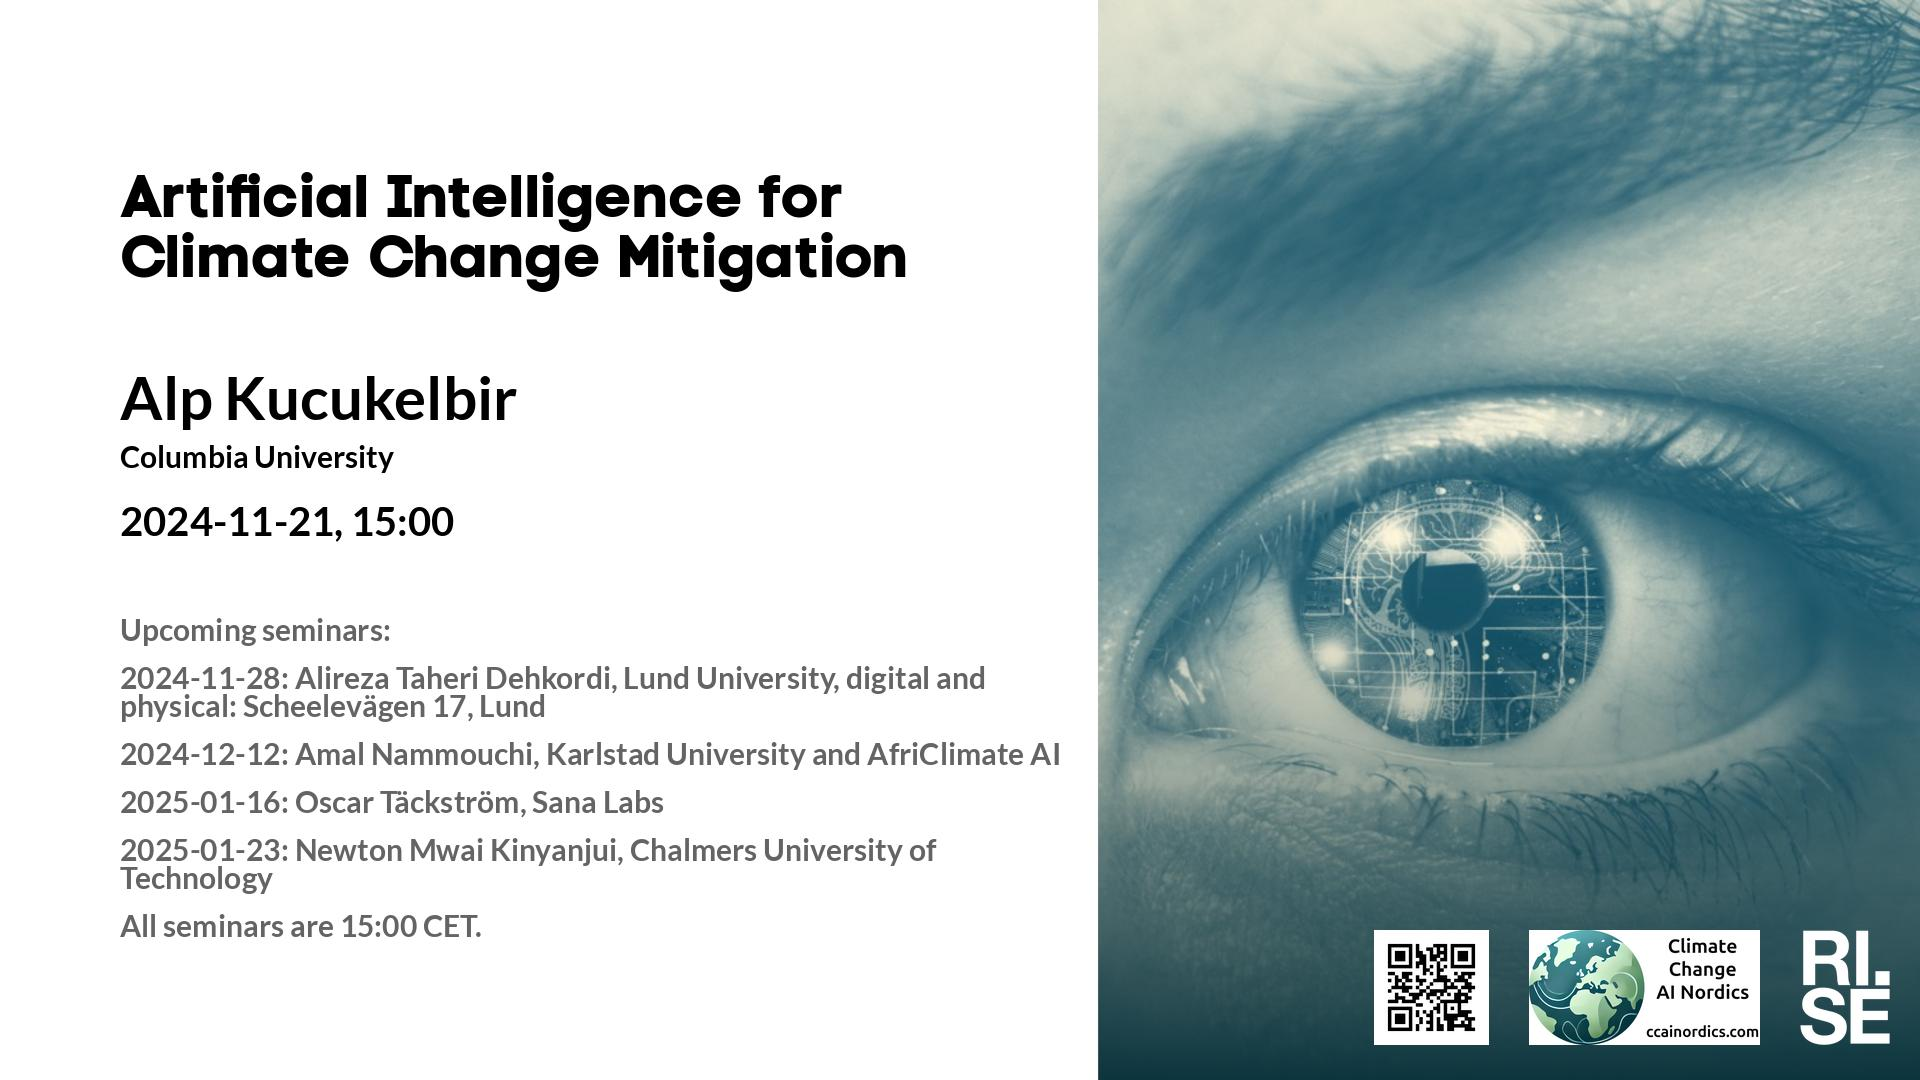
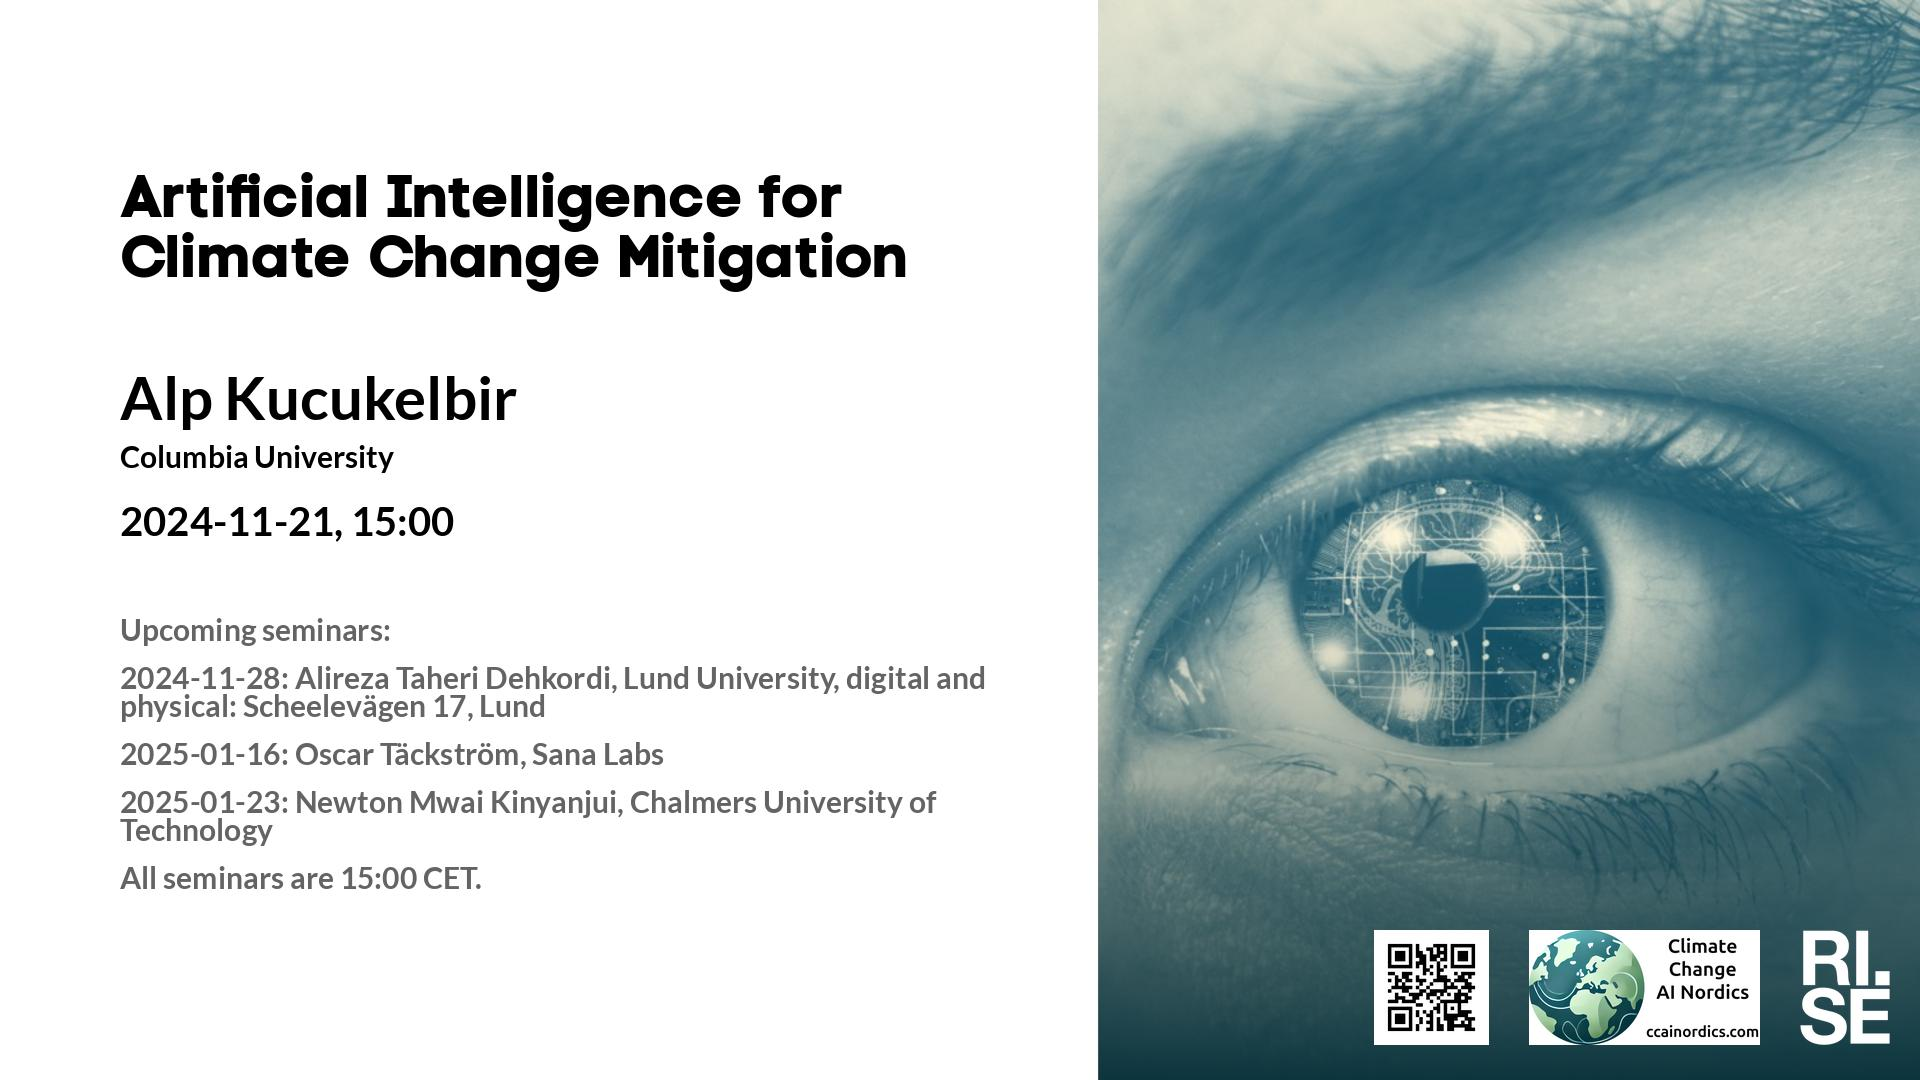
Updated plan on web site.

Changed region(s): [[0.0625, 0.6722, 0.5625, 0.8861]]

diff --git a/lm/index.md b/lm/index.md
@@ -5,7 +5,7 @@ metatags: "<meta name=\"robots\" content=\"noindex,nofollow\" />"
 <style type="text/css" scoped>
 td, th {border: 1px solid #ccc; padding: 0.6em;}
 table {border-collapse: collapse;}
-</style># Learning Machines Plan 2024-11-28
+</style># Learning Machines Plan 2024-12-03
 
 | date | speaker                                   | photo | shareable | meeting backdrop | youtube thumbnail | <a title="Speaker, Title, Abstract, Bio, Photo. Strikethrough means we don't have it yet.">comment</a>        |
 | ---- | ----------------------------------------- | ----- | ----- | ----- | ----- | -------------- |
@@ -13,13 +13,13 @@ table {border-collapse: collapse;}
 |  2024-11-21  |  [Alp Kucukelbir, Columbia University](2024-11-21.md)  |  [photo](photo-alp-kucukelbir.jpg)  |  [social media ](social-media-alp-kucukelbir.jpg)  |  [meeting backdrop ](meeting-backdrop-alp-kucukelbir.jpg)  |  [youtube thumbnail ](youtube-thumbnail-alp-kucukelbir.jpg)  |  STABP  |
 |  2024-11-28  |  [Alireza Taheri Dehkordi, Lund University](2024-11-28.md)  |  [photo](photo-alireza-taheri-dehkordi.jpg)  |  [social media ](social-media-alireza-taheri-dehkordi.jpg)  |  [meeting backdrop ](meeting-backdrop-alireza-taheri-dehkordi.jpg)  |  [youtube thumbnail ](youtube-thumbnail-alireza-taheri-dehkordi.jpg)  |  STABP  |
 | <span style="color:grey"> 2024-12-05 </span> | <span style="color:grey"> Jonas A. ? </span> | <span style="color:grey">  </span> | <span style="color:grey">  </span> | <span style="color:grey">  </span> | <span style="color:grey">  </span> | <span style="color:grey"> S~~TABP~~ </span> |
-|  2024-12-12  |  [Amal Nammouchi, Karlstad University and AfriClimate AI](2024-12-12.md)  |  [photo](photo-amal-nammouchi.jpg)  |  [social media ](social-media-amal-nammouchi.jpg)  |  [meeting backdrop ](meeting-backdrop-amal-nammouchi.jpg)  |  [youtube thumbnail ](youtube-thumbnail-amal-nammouchi.jpg)  |  S~~TAB~~P  |
+| <span style="color:red"> 2024-12-12 </span> | <span style="color:red"> *Up for grabs!!!* </span> | <span style="color:red">  </span> | <span style="color:red">  </span> | <span style="color:red">  </span> | <span style="color:red">  </span> | <span style="color:red"> CANCELLED </span> |
 | <span style="color:red"> 2024-12-19 </span> | <span style="color:red"> Jullov </span> | <span style="color:red">  </span> | <span style="color:red">  </span> | <span style="color:red">  </span> | <span style="color:red">  </span> | <span style="color:red"> CANCELLED </span> |
 | <span style="color:red"> 2024-12-26 </span> | <span style="color:red"> Jullov </span> | <span style="color:red">  </span> | <span style="color:red">  </span> | <span style="color:red">  </span> | <span style="color:red">  </span> | <span style="color:red"> CANCELLED </span> |
 |  2025-01-16  |  [Oscar Täckström, Sana Labs](2025-01-16.md)  |    |  [social media ](social-media-oscar-tackstrom.jpg)  |  [meeting backdrop ](meeting-backdrop-oscar-tackstrom.jpg)  |  [youtube thumbnail ](youtube-thumbnail-oscar-tackstrom.jpg)  |  S~~TABP~~  |
 |  2025-01-23  |  [Newton Mwai Kinyanjui, Chalmers University of Technology](2025-01-23.md)  |    |  [social media ](social-media-newton-mwai-kinyanjui.jpg)  |  [meeting backdrop ](meeting-backdrop-newton-mwai-kinyanjui.jpg)  |  [youtube thumbnail ](youtube-thumbnail-newton-mwai-kinyanjui.jpg)  |  S~~TABP~~  |
 | <span style="color:grey"> 2025-01-30 </span> | <span style="color:grey"> Abdulhakim A. ? </span> | <span style="color:grey">  </span> | <span style="color:grey">  </span> | <span style="color:grey">  </span> | <span style="color:grey">  </span> | <span style="color:grey"> S~~TABP~~ </span> |
-| <span style="color:purple"> 2025-02-06 </span> | <span style="color:purple"> *Up for grabs!!!* </span> | <span style="color:purple">  </span> | <span style="color:purple">  </span> | <span style="color:purple">  </span> | <span style="color:purple">  </span> | <span style="color:purple"> ~~STABP~~ </span> |
+| <span style="color:grey"> 2025-02-06 </span> | <span style="color:grey"> Amal N. ? </span> | <span style="color:grey">  </span> | <span style="color:grey">  </span> | <span style="color:grey">  </span> | <span style="color:grey">  </span> | <span style="color:grey"> S~~TABP~~ </span> |
 | <span style="color:red"> 2025-02-13 </span> | <span style="color:red"> Sportlov GBG </span> | <span style="color:red">  </span> | <span style="color:red">  </span> | <span style="color:red">  </span> | <span style="color:red">  </span> | <span style="color:red"> CANCELLED </span> |
 | <span style="color:purple"> 2025-02-20 </span> | <span style="color:purple"> *Up for grabs!!!* </span> | <span style="color:purple">  </span> | <span style="color:purple">  </span> | <span style="color:purple">  </span> | <span style="color:purple">  </span> | <span style="color:purple"> ~~STABP~~ </span> |
 | <span style="color:red"> 2025-02-27 </span> | <span style="color:red"> Sportlov STHLM </span> | <span style="color:red">  </span> | <span style="color:red">  </span> | <span style="color:red">  </span> | <span style="color:red">  </span> | <span style="color:red"> CANCELLED </span> |

diff --git a/lm/2024-11-21.md b/lm/2024-11-21.md
@@ -28,7 +28,6 @@ This talk is for AI practitioners looking to understand how AI fits into the big
 **Upcoming seminars:**
 
 * 2024-11-28: Alireza Taheri Dehkordi, Lund University, **digital and physical: Scheelevägen 17, Lund**
-* 2024-12-12: Amal Nammouchi, Karlstad University and AfriClimate AI
 * 2025-01-16: Oscar Täckström, Sana Labs
 * 2025-01-23: Newton Mwai Kinyanjui, Chalmers University of Technology
 * All seminars are 15:00 CET.

diff --git a/lm/2024-11-28.md b/lm/2024-11-28.md
@@ -27,7 +27,6 @@ This seminar will have an in-person presence at the RISE office in Lund, located
 
 **Upcoming seminars:**
 
-* 2024-12-12: Amal Nammouchi, Karlstad University and AfriClimate AI
 * 2025-01-16: Oscar Täckström, Sana Labs
 * 2025-01-23: Newton Mwai Kinyanjui, Chalmers University of Technology
 * All seminars are 15:00 CET.
